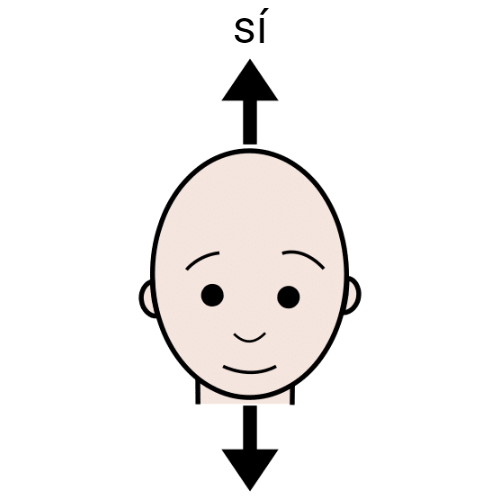
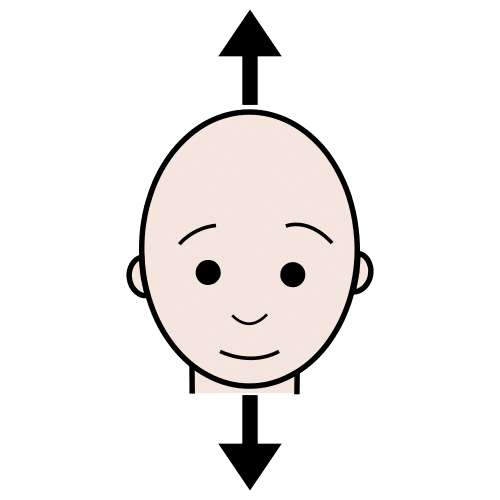
TEA 4 - v.4.1
- Cerca de favorit donava error, solucionat
- Imatges de les icones modificades

diff --git a/springboot-projecte-escoltam/src/main/java/com/escoltam/springboot/projecte/escoltam/models/dao/IPanellDao.java b/springboot-projecte-escoltam/src/main/java/com/escoltam/springboot/projecte/escoltam/models/dao/IPanellDao.java
@@ -45,6 +45,6 @@ public interface IPanellDao extends CrudRepository<Panell, Long>{
 	 * @param username
 	 * @return panell favorit
 	 */
-	@Query("select p from Panell p where p.favorit=true and p.usuari = (select u.id from Usuari u where u.username=?1)")
+	@Query("select p from Panell p left join fetch p.usuari u where p.favorit=true and u.username=?1")
 	public Panell findPanellFavByUsername(String username);
 }
